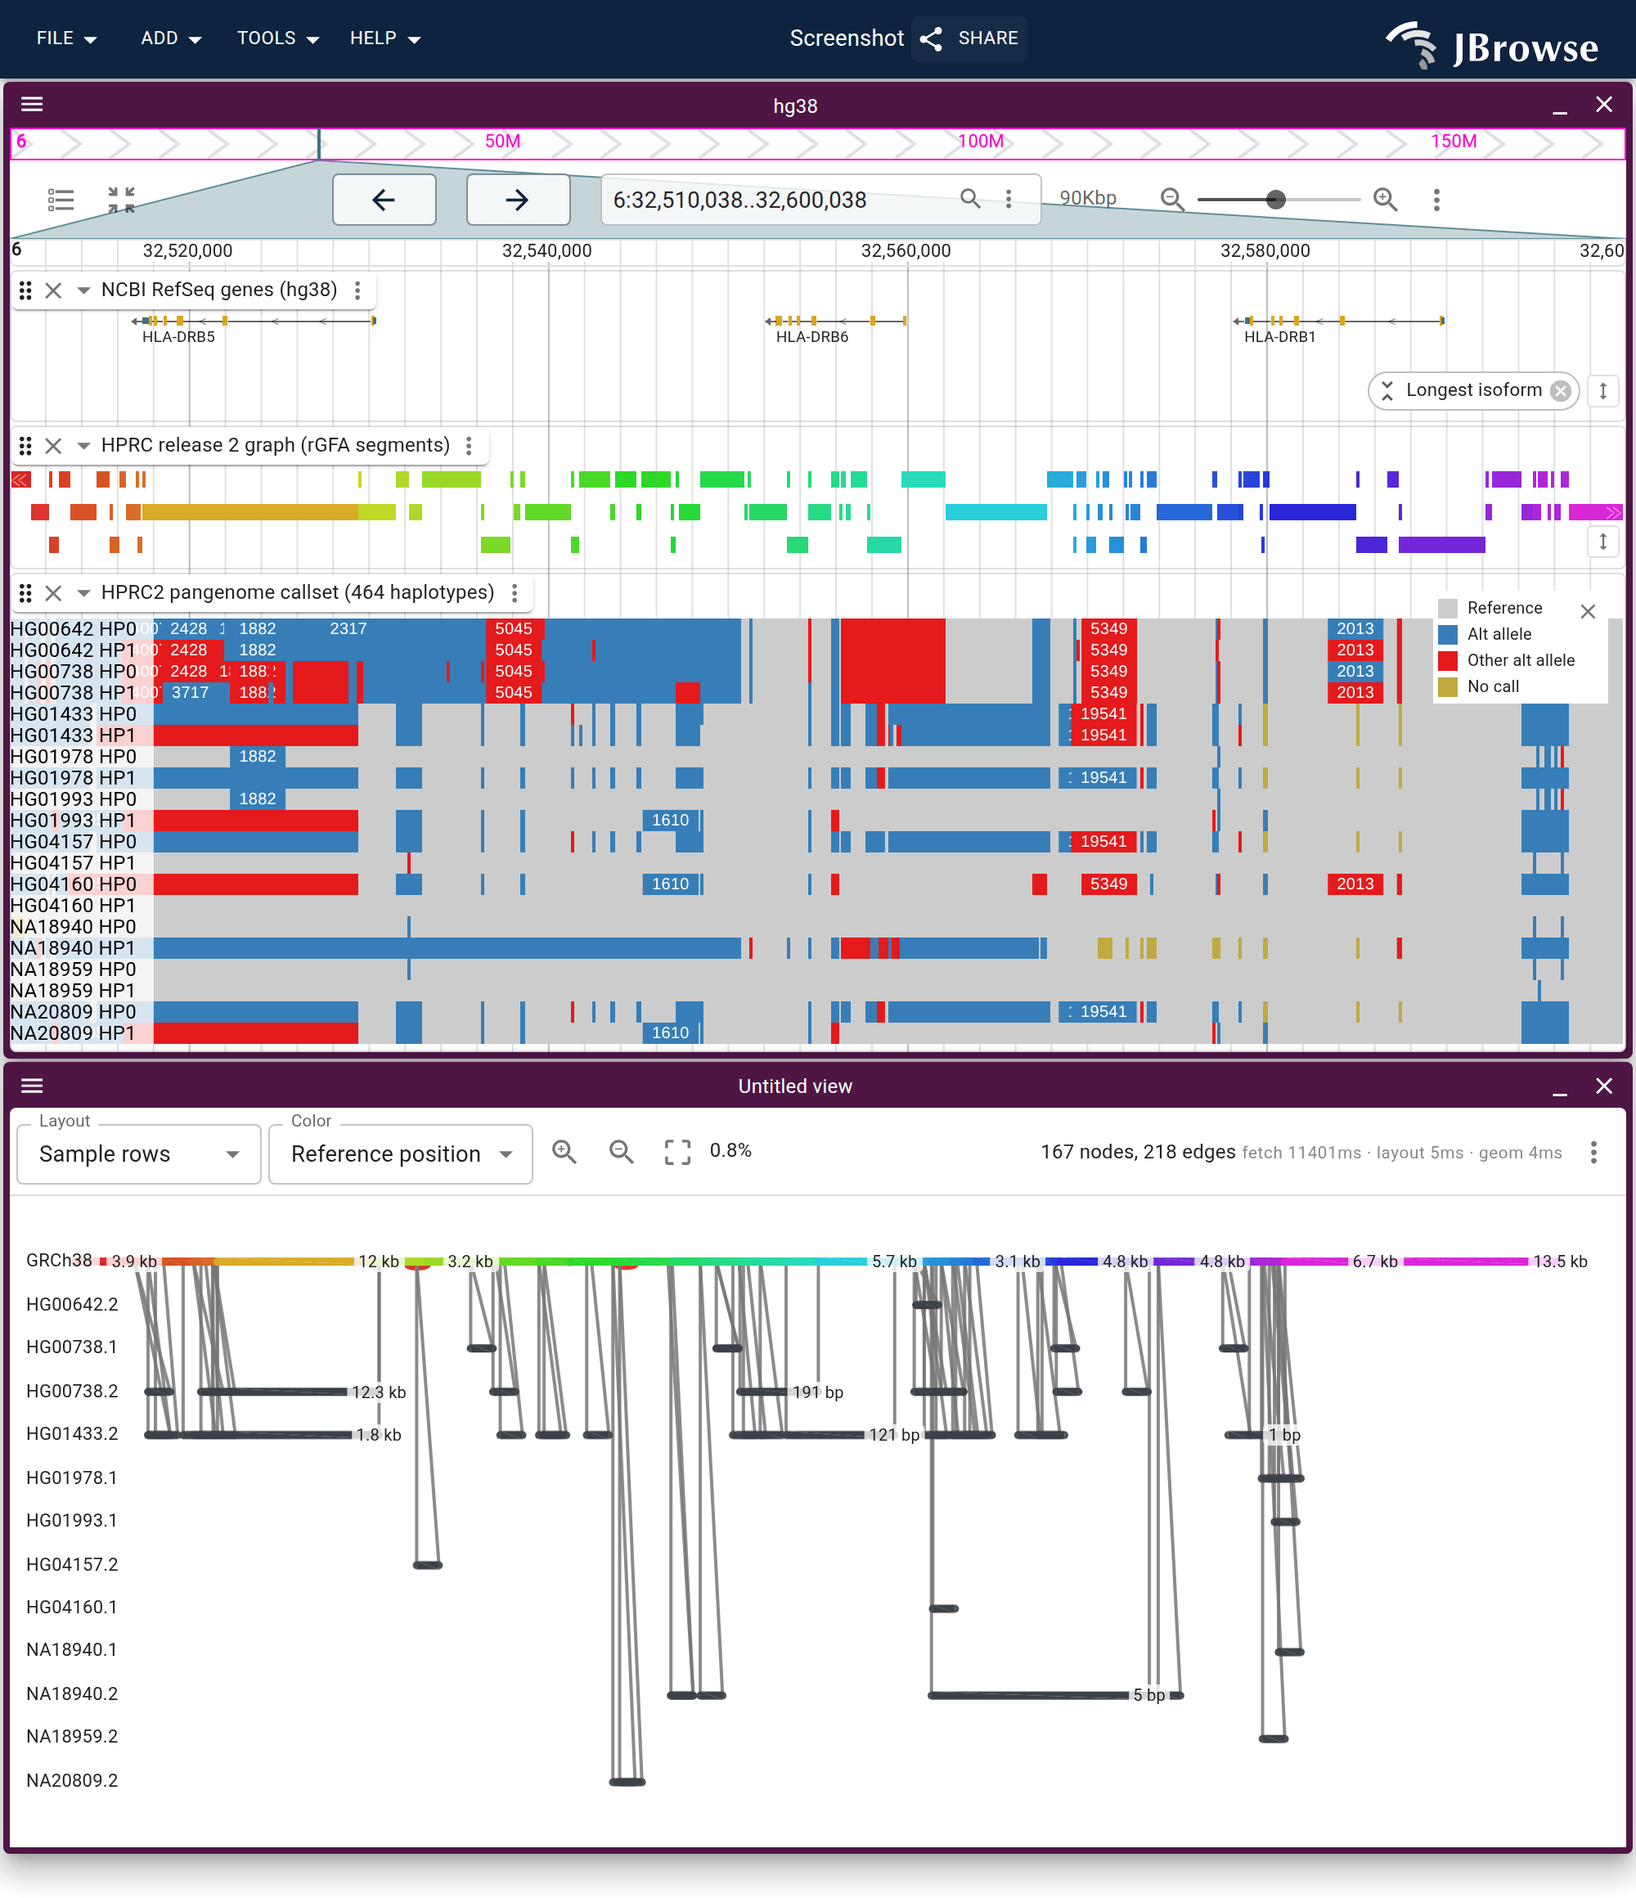
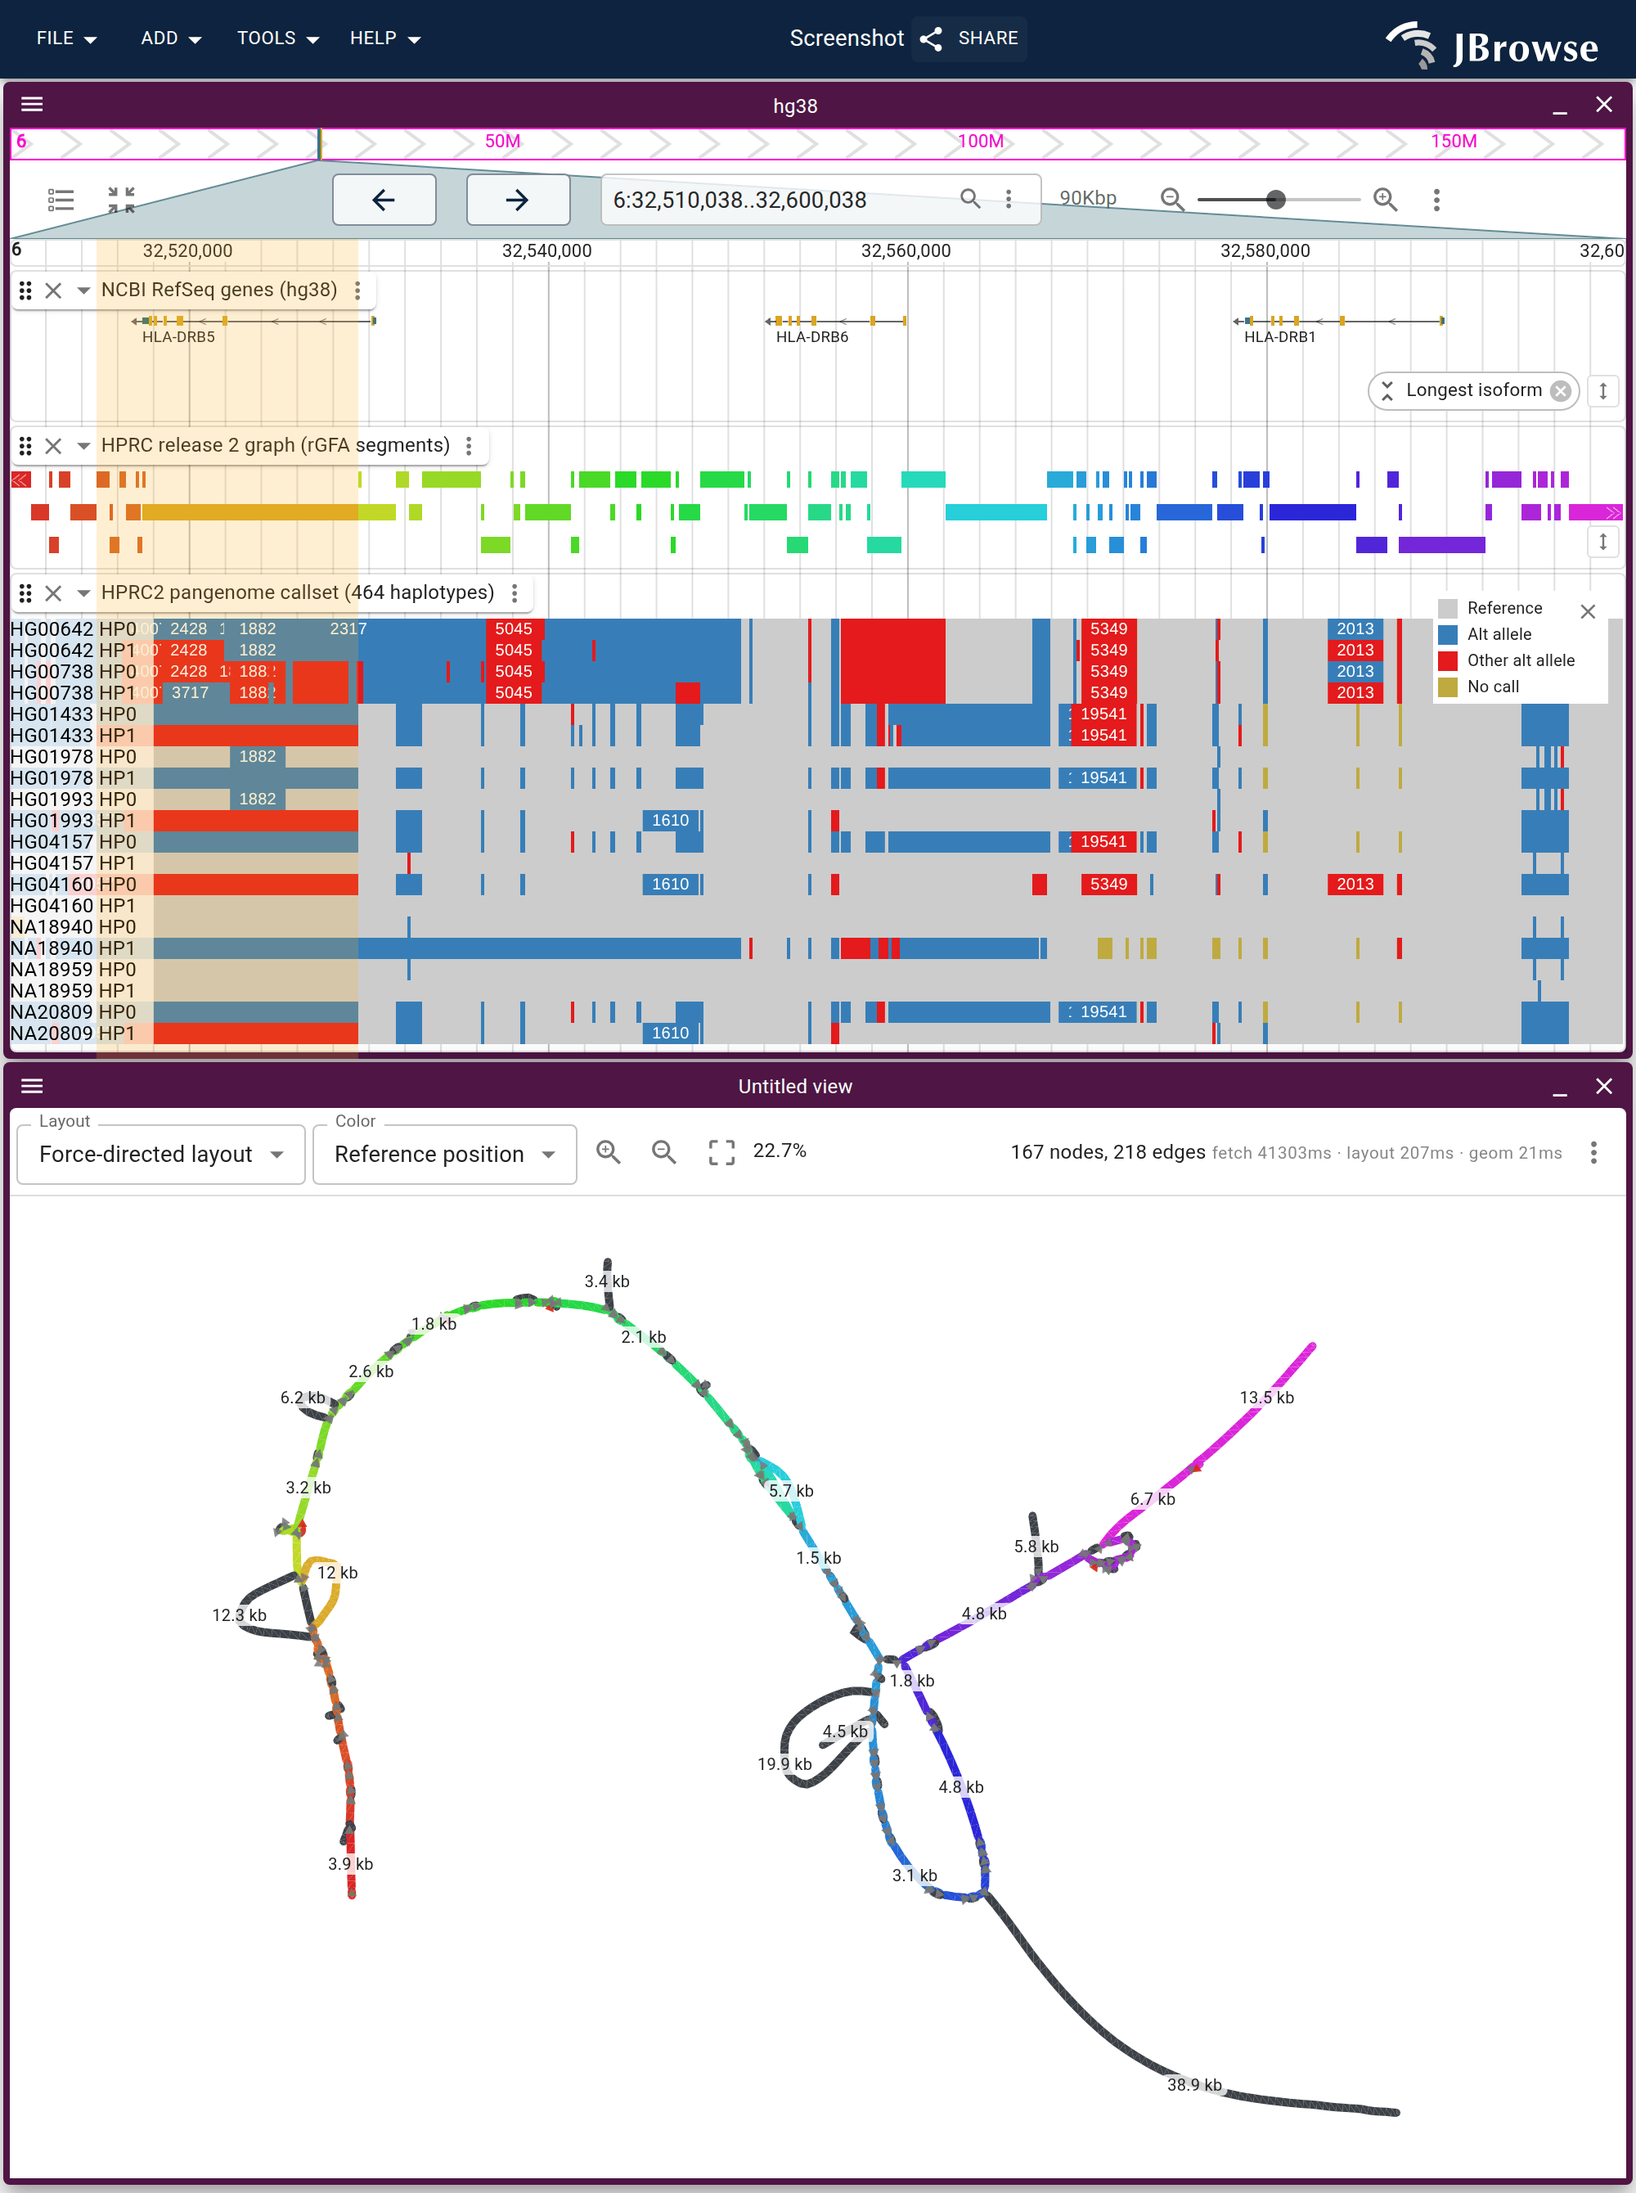
docs(pangenome): mark the event, not the rows, in graph vs callset
The two products cannot be matched row by row: rGFA's SN is first-contributed
attribution, a genotype is carriage, and at the marked deletion they disagree
per donor. Relabelling the callset rows into PanSN would have asserted a
mapping that is false.

So the figure marks one deletion instead. The band crosses the genes, the
segments lane and the genotype matrix as one column, and the graph pane is free
to be the force drawing review asked for, with the reference-position ramp
joining the two.

Claude-Session: https://claude.ai/code/session_011xQEbTekTLMTSWopEJ2txk

diff --git a/website/scripts/specs/graph.ts b/website/scripts/specs/graph.ts
@@ -434,6 +434,13 @@ const MHC_CLASSII_REGION = {
 // the callset display's `layout` (not `runClustering`) so the row SET matches
 // the graph's: both haplotypes of each donor, so a carrier row sits next to
 // its non-carrier sibling rather than the sibling being silently absent.
+// The one event pangenome/hprc_graph_vs_callset marks in both products: a
+// 14,596 bp deletion, the largest record in the window that more than one donor
+// carries. From the callset itself —
+// `tabix hprc-v2.0-mc-grch38.wave.vcf.gz chr6:32510000-32600000`, longest REF
+// among the records the SV filter keeps.
+const MHC_MARKED_DELETION = '6:32,514,842-32,529,438'
+
 const MHC_CALLSET_LAYOUT = [
   'HG00642',
   'HG00738',
@@ -1377,21 +1384,30 @@ export const graphSpecs: ScreenshotSpec[] = [
   // evenly across the width, which would break exactly the correspondence this
   // figure is for.
   //
-  // Review: "hard to see the way the SV track relates to the graph". Root
-  // cause wasn't color (the segments lane above the callset already carries
-  // hprcSegmentsLane's reference-position ramp) but SCALE: the callset held
-  // all 464 haplotypes while the graph's sample-rows layout draws only the
-  // donors that actually walk a non-reference path here, ~12 of them, so nine
-  // in ten callset rows had nothing to compare against and the 12 that
-  // mattered were lost in the stack. `MHC_CALLSET_LAYOUT` restricts the
-  // callset to that same 10-donor set (both haplotypes each, so a reference-
-  // only sibling row is visible next to a carrier row rather than silently
-  // dropped), pulled from the segments/links tabix over the identical
-  // MHC_CLASSII_REGION window (`tabix hprc-v2.0-mc-grch38.links.bed.gz
-  // 'GRCh38#0#chr6:32510000-32600000'`, every non-reference column). Fixed
-  // list rather than `runClustering`: a preset `layout` is what makes the row
-  // SET match the graph's, which clustering (free to reorder/include any of
-  // the 464) can't guarantee.
+  // THE CORRESPONDENCE IS AN EVENT, NOT A ROW, and two rounds of review went on
+  // trying to make it a row. The graph pane was in sample rows so its rows could
+  // be read against the callset's, and `MHC_CALLSET_LAYOUT` cut the callset to
+  // the ten donors the graph draws so the two lists would be the same length.
+  // They still cannot line up, and the data says why: rGFA's SN names the
+  // assembly that FIRST CONTRIBUTED a segment, while a genotype names every
+  // haplotype that CARRIES it. Checked at the marked deletion — the graph
+  // attributes HG04157's only contribution here to HG04157.2, and the callset
+  // has HG04157 carrying that deletion on its FIRST haplotype; HG01993 goes the
+  // other way. Relabelling the callset rows into PanSN would therefore have
+  // asserted a mapping that is not true, which is the trap avoided here.
+  //
+  // So the figure marks one EVENT instead: `highlight` puts a band on the 14,596
+  // bp deletion at chr6:32,514,842, which crosses the gene lane, the segments
+  // lane and the genotype matrix in one column — 6 of the 10 donors carry it,
+  // on 9 of their 20 haplotypes. The graph below is the force drawing (review:
+  // "consider using force directed bandage graph"), where the same event is a
+  // bubble rather than a row. What the pair says: the callset names who carries
+  // it, the graph names what the alternative sequence is.
+  //
+  // MHC_CALLSET_LAYOUT stays, for the reason it was added — 464 rows buries the
+  // ten donors this window has anything to say about. Fixed list rather than
+  // `runClustering`: clustering is free to reorder and to include any of the
+  // 464, so nothing would hold the row set still.
   {
     mode: 'url',
     name: 'pangenome/hprc_graph_vs_callset',
@@ -1401,6 +1417,7 @@ export const graphSpecs: ScreenshotSpec[] = [
           type: 'LinearGenomeView',
           assembly: 'hg38',
           loc: 'chr6:32,510,000-32,600,000',
+          highlight: [MHC_MARKED_DELETION],
           tracks: [
             {
               trackId: 'hg38_ncbiRefSeq_ucsc',
@@ -1423,23 +1440,22 @@ export const graphSpecs: ScreenshotSpec[] = [
           type: 'GraphGenomeView',
           loadedTrackId: SEGMENTS_TRACK,
           loadedRegion: MHC_CLASSII_REGION,
-          layoutMode: 'samplerows',
           colorScheme: 'reference-position',
         },
       ],
     }),
-    // two signals, ANDed: the graph's rows drawn, and the callset's own fetch
-    // finished (not just first paint). A bare comma list would be a CSS OR and
-    // fire on whichever landed first.
+    // two signals, ANDed: the graph drawn, and the callset's own fetch finished
+    // (not just first paint). A bare comma list would be a CSS OR and fire on
+    // whichever landed first.
     readySelector:
-      'body:has([data-testid="graph-row-label"]):has([data-testid="graph-layout-select"]) [data-testid="variant-display-done"][data-display-phase="ready"]',
+      'body:has([data-testid="graph-perf-stats"]):has([data-testid="graph-layout-select"]) [data-testid="variant-display-done"][data-display-phase="ready"]',
     readyTimeout: 360000,
     settleMs: 5000,
     viewportWidth: 1000,
-    // the gene lane, the segments lane, the 20-row callset, and the graph's
-    // rows under them (1336 before the row layouts capped their total height,
-    // which took 200 px off the graph pane)
-    viewportHeight: 1160,
+    // the gene lane, the segments lane, the 20-row callset, and the graph pane
+    // under them — the force drawing is about as tall as it is wide where the
+    // row stack was flat
+    viewportHeight: 1340,
     hideTooltip: true,
   },
   // The correspondence, which is the reason to open the two views together:

diff --git a/website/docs/tutorials/pangenome_hprc.md b/website/docs/tutorials/pangenome_hprc.md
@@ -425,11 +425,19 @@ so SNPs are absent from the graph even though every one is in the VCF. Filter
 the callset to that same tier and the two describe the same events from opposite
 ends. The graph states an allele and its length but cannot say whose it is,
 since collapsing is what let it be found at all, while the callset never lost
-the samples. Putting both in sample rows makes the difference explicit: the
-graph names the haplotype an allele came from, and the callset names every
-haplotype that carries it.
+the samples.
 
-<Figure caption="One window, both products, restricted to the same 10 donors so the rows line up: the callset (top) is filtered to the same 50 bp tier the graph holds, both haplotypes of each donor labeled by name; the graph (bottom) rows only the haplotypes that donated sequence here, colored by where on the reference their alleles attach. The callset numbers a donor's haplotypes HP0/HP1, the graph .1/.2. A block in the matrix and a row in the graph answer different questions about the same bp." src="/img/pangenome/hprc_graph_vs_callset.png" />
+The two do not line up row by row, and it is worth being clear why. rGFA's `SN`
+tag names the assembly a segment was **first contributed by**, so a graph row is
+attribution; a genotype names every haplotype that **carries** an allele, so a
+matrix row is carriage. A donor can appear on one haplotype in the graph and
+carry the same event on the other in the callset. What does line up is the
+event: mark an interval in the linear view and it crosses the genes, the
+segments lane and the genotype matrix in one column, and the reference-position
+ramp gives the graph's alleles at that position the same hue as the segments
+above them.
+
+<Figure caption="One window, both products. The band marks a single deletion from the callset: the matrix below it shows which of the ten donors' haplotypes carry it, and the segments lane above it is the graph's own sequence at that position, in the ramp the graph draws with. The graph is the force-directed layout of the same window, where the marked event is a bubble rather than a row, in the same hue as the band." src="/img/pangenome/hprc_graph_vs_callset.png" />
 
 ## Reproduce it end to end
 
